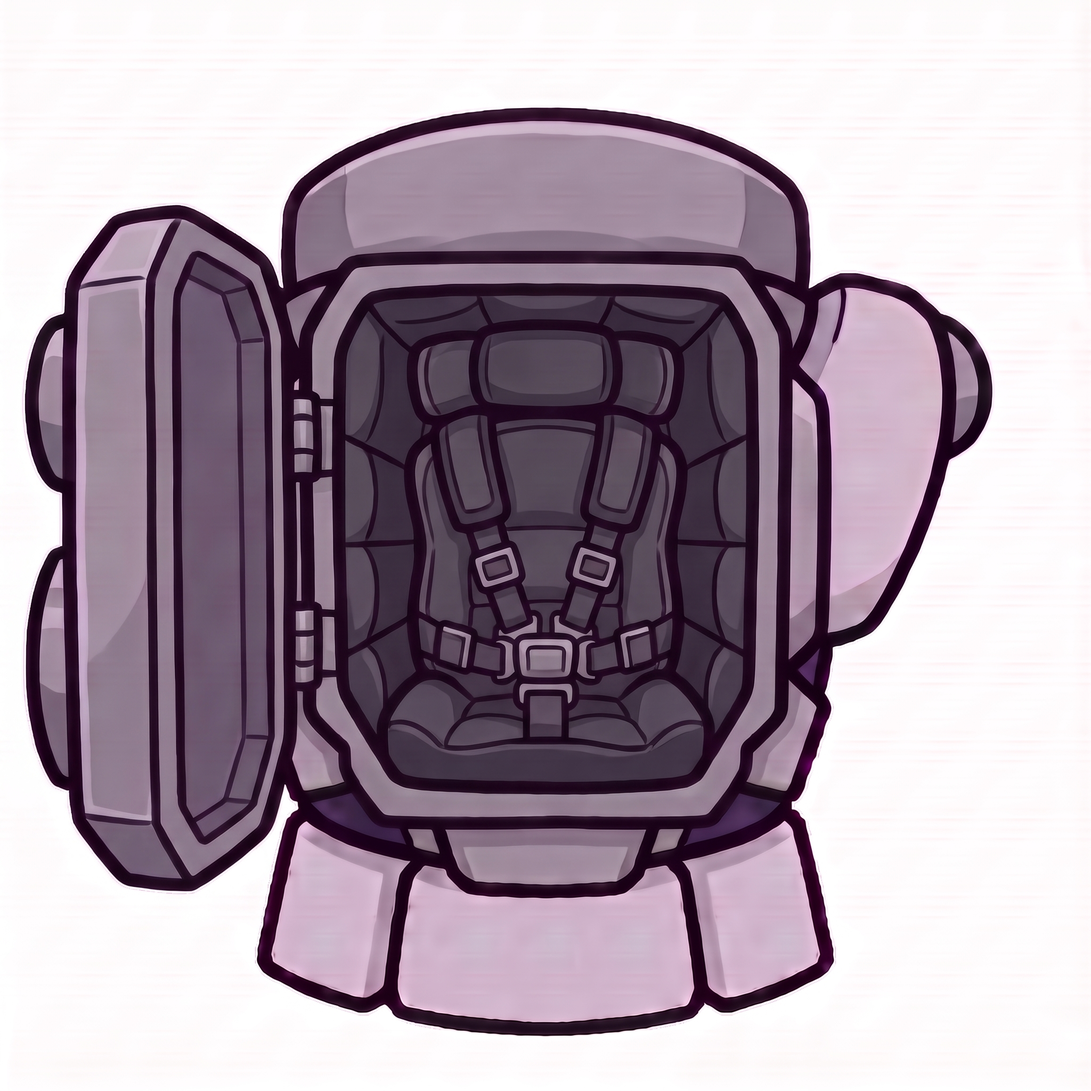
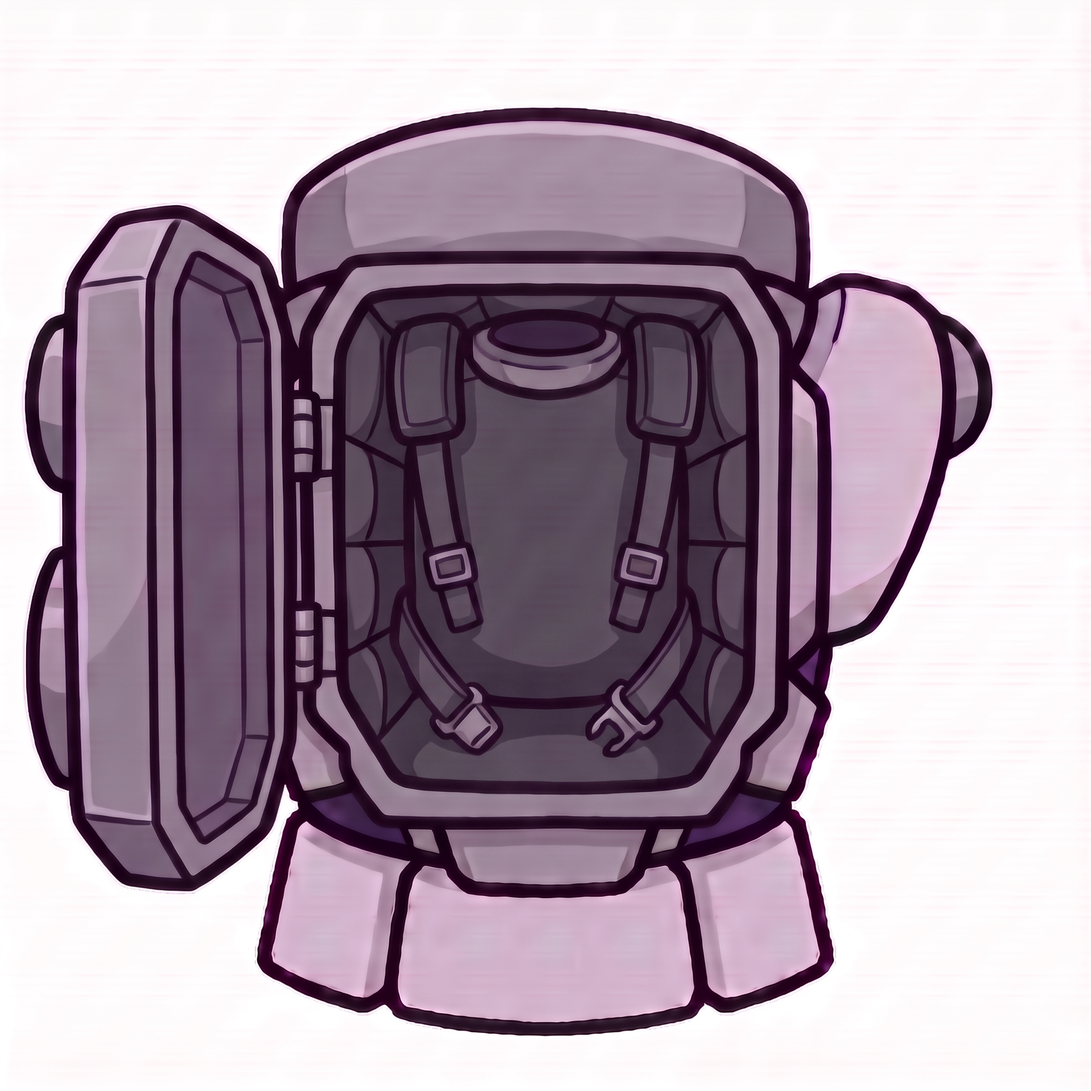
Bulwark open back: upright standing cavity with loose harness, no backwards seat
Claude-Session: https://claude.ai/code/session_01GM4XsNt8FF8EEgy8oUJDKj

Changed region(s): [[0.3438, 0.2812, 0.6562, 0.7188]]

diff --git a/docs/DESIGN.md b/docs/DESIGN.md
@@ -161,6 +161,6 @@ as separate apparel with their own hit points.
 ### Entry: the back opens
 
 The suit is entered from behind: the whole back panel (power-cell caps and release wheel on it) is hinged on
-one side and swings open like a door, showing the padded cavity with a seat harness
+one side and swings open like a door, showing an upright padded cavity for a standing pilot (who faces away from the viewer: no seat), with loose harness straps
 (`chassis_bulwark_north_open.png`). Used for the empty/parked suit and as a frame of the climb-in animation
 (turn the release wheel, back swings open, pilot climbs in, back closes).
